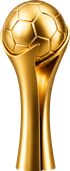
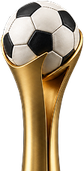
fix: update ribbon asset

diff --git a/mapness/lib/widgets/landing/dashboard/tifo_champion_ribbon.dart b/mapness/lib/widgets/landing/dashboard/tifo_champion_ribbon.dart
@@ -135,21 +135,29 @@ class _ChampionRibbonConfig extends CityEventConfig {
   @override
   bool get hasLogo => true;
 
-  /// How far the trophy is pushed down from where the banner shell would
-  /// otherwise put it.
+  /// How far the trophy is pushed down from the bottom of the visible band.
   ///
-  /// The shell draws the ribbon *below* its own box — `verticalOffset` plus an
-  /// inner height taller than the outer one — so a logo pinned to the stack's
-  /// bottom lands at the ribbon's TOP edge, floating clear of it. This is the
-  /// single knob that seats the trophy back into the ribbon; raise it to sink
-  /// the trophy further, lower it to lift the trophy up.
-  static const double _trophyDrop = 12;
+  /// Zero, and derived rather than eyeballed. The logo is pinned by
+  /// `Positioned(bottom: 0)` to the bottom of a stack exactly
+  /// [bannerBoxHeight] tall, so at zero the artwork's last row lands on the
+  /// ribbon's bottom edge. The artwork has no transparent margin — its alpha
+  /// bounds fill the frame and its final row is opaque — so that row IS the
+  /// base of the trophy.
+  ///
+  /// Positive therefore hides the base behind the sheet, negative leaves a
+  /// strip of ribbon body showing under it. There is no slack to reclaim at
+  /// the sheet's rounded corners either: that radius is 16 and the trophy
+  /// stands at x 40 to 68, where the edge is already straight.
+  static const double _trophyDrop = 4;
 
   @override
   EventLogoConfig get logoConfig => EventLogoConfig(
     imagePath: Assets.tifo.images.championTrophy.keyName,
-    // Height follows from the artwork's own 0.41 aspect.
-    width: 24,
+    // Sized by width because that is all `EventLogoConfig` exposes; 28 against
+    // the artwork's own 0.49 aspect lands the trophy at the ~57 tall the
+    // design draws it. Re-derive this if the artwork is ever swapped again —
+    // the previous one was 0.41, and reusing its width made this one squat.
+    width: 28,
     padding: const EdgeInsets.only(left: 40),
     imageOffset: const Offset(0, _trophyDrop),
     // The trophy is a still object; a sweeping highlight over it reads as a
